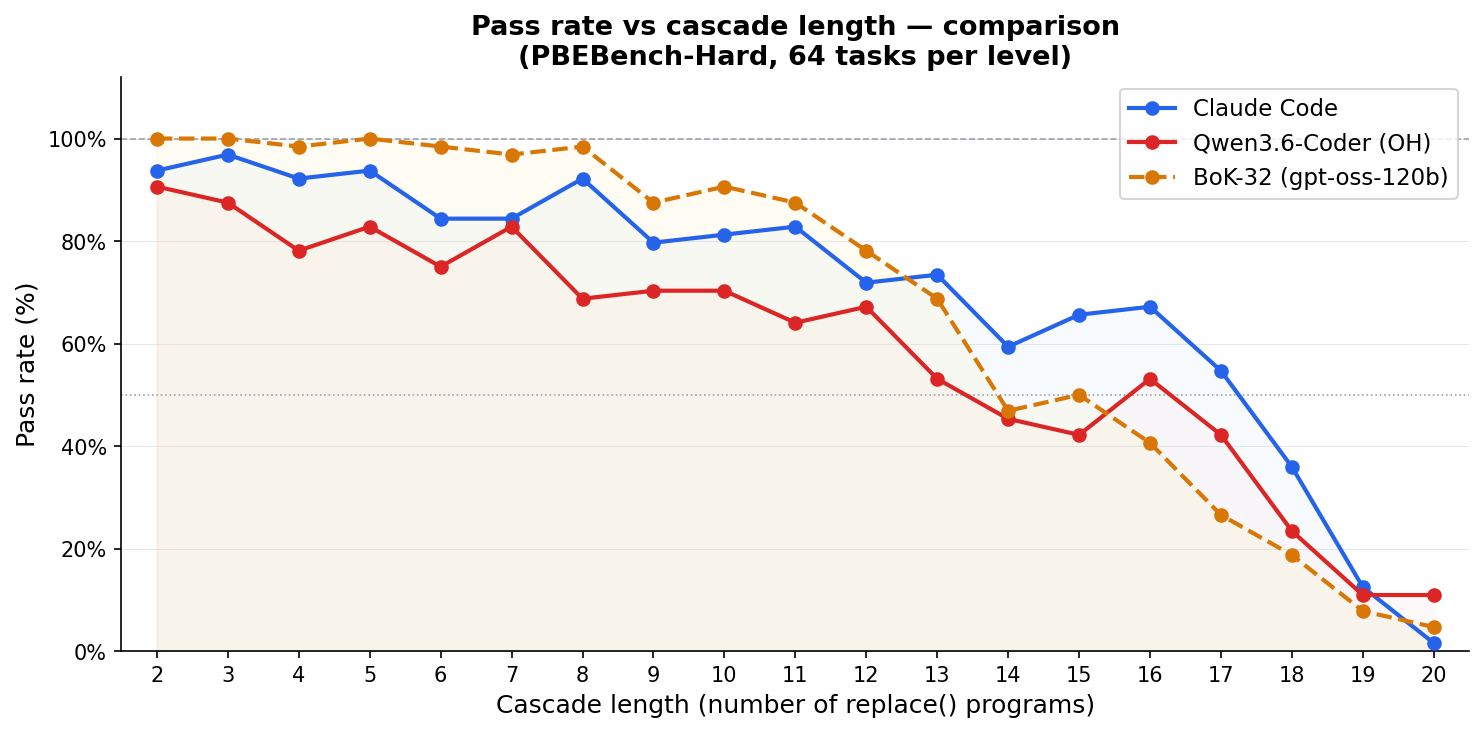
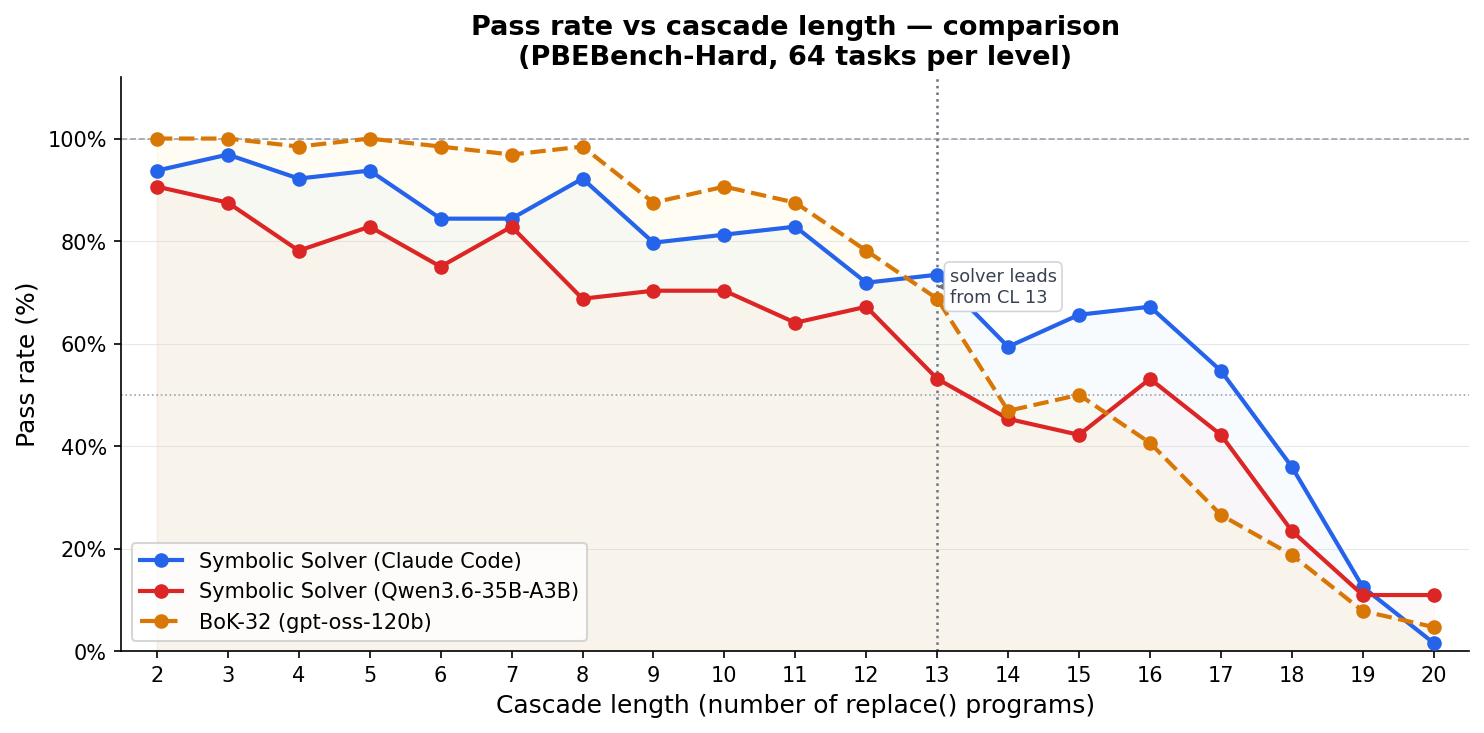
Add crossover annotation and fix labels in cascade comparison plot

diff --git a/scripts/plot_solver_cascade.py b/scripts/plot_solver_cascade.py
@@ -149,12 +149,16 @@ def main():
 
     fig, ax = plt.subplots(figsize=(10, 5))
 
+    # Keep per-series pass rate arrays for crossover detection
+    series_rates: list[tuple[bool, list[float]]] = []
+
     for i, (by_cl, label, is_bok) in enumerate(all_series):
         color_line, color_fill = COLORS[i % len(COLORS)]
         pass_rates = [
             100 * sum(by_cl[cl]) / len(by_cl[cl]) if by_cl[cl] else float("nan")
             for cl in all_cascade_lengths
         ]
+        series_rates.append((is_bok, pass_rates))
 
         linestyle = "--" if is_bok else "-"
         ax.fill_between(all_cascade_lengths, pass_rates, alpha=0.10, color=color_fill)
@@ -174,6 +178,32 @@ def main():
                         fontsize=7.5, color="#1E3A5F",
                     )
 
+    # Crossover annotation: first CL where best solver exceeds best BoK
+    solver_pr_lists = [pr for is_bok, pr in series_rates if not is_bok]
+    bok_pr_lists    = [pr for is_bok, pr in series_rates if is_bok]
+    if solver_pr_lists and bok_pr_lists:
+        crossover_cl = None
+        crossover_y = None
+        for j, cl in enumerate(all_cascade_lengths):
+            best_solver = max((pr[j] for pr in solver_pr_lists if not np.isnan(pr[j])), default=float("nan"))
+            best_bok    = max((pr[j] for pr in bok_pr_lists    if not np.isnan(pr[j])), default=float("nan"))
+            if not np.isnan(best_solver) and not np.isnan(best_bok) and best_solver > best_bok:
+                crossover_cl = cl
+                crossover_y  = (best_solver + best_bok) / 2
+                break
+        if crossover_cl is not None:
+            ax.axvline(crossover_cl, color="#6B7280", linewidth=1.2, linestyle=":", zorder=2)
+            ax.annotate(
+                f"solver leads\nfrom CL {crossover_cl}",
+                xy=(crossover_cl, crossover_y),
+                xytext=(6, 0),
+                textcoords="offset points",
+                va="center", ha="left",
+                fontsize=8.5, color="#374151",
+                bbox=dict(boxstyle="round,pad=0.3", fc="white", ec="#D1D5DB", lw=0.8),
+                arrowprops=dict(arrowstyle="-|>", color="#6B7280", lw=1.0),
+            )
+
     # Reference lines
     ax.axhline(100, color="#9CA3AF", linewidth=0.8, linestyle="--", zorder=1)
     ax.axhline(50,  color="#9CA3AF", linewidth=0.8, linestyle=":",  zorder=1)
@@ -191,7 +221,7 @@ def main():
             "Pass rate vs cascade length — comparison\n(PBEBench-Hard, 64 tasks per level)",
             fontsize=13, fontweight="bold",
         )
-        ax.legend(fontsize=11, loc="upper right")
+        ax.legend(fontsize=10, loc="lower left")
 
     ax.set_xticks(all_cascade_lengths)
     ax.set_xlim(all_cascade_lengths[0] - 0.5, all_cascade_lengths[-1] + 0.5)
